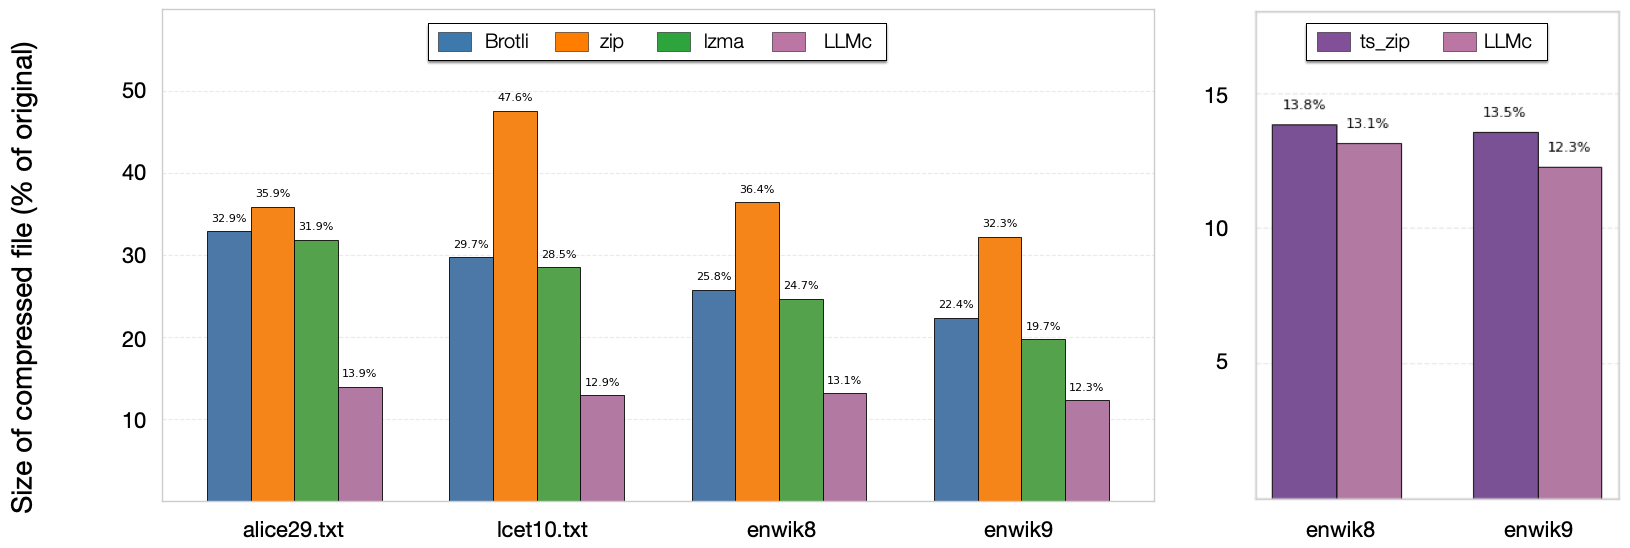
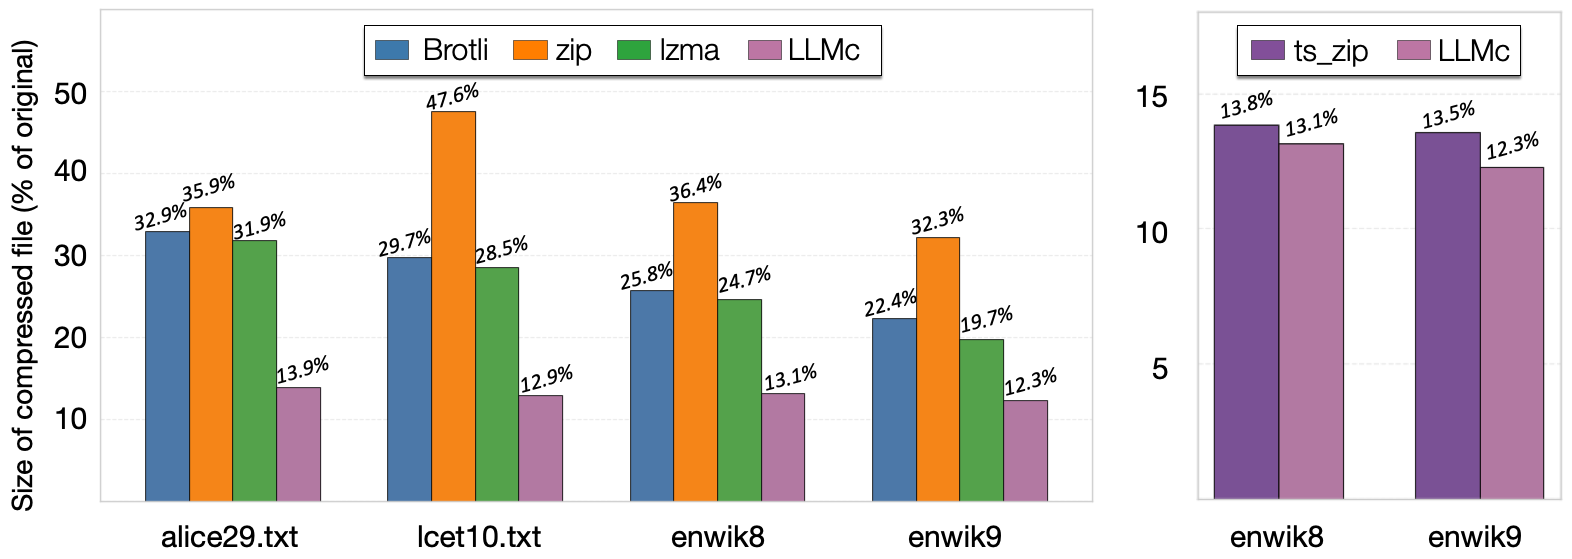
docs: fix image size and path.

diff --git a/README.md b/README.md
@@ -1,5 +1,10 @@
 <p align="center">
-  <img src="./figures/logo.png" alt="LLMc" width="120" />
+  <img src="./figures/logo.png" alt="LLMc" width="30%" />
+</p>
+
+<p align="center">
+  <a href="https://syfi.cs.washington.edu/blog/2025-10-03-llmc-compression">Blog</a> |
+  <a href="https://github.com/uw-syfi/llmc">Code</a>
 </p>
 
 LLMc is a language-model–powered compressor for natural language text. It encodes token ranks instead of raw token IDs and stores them with a compact format.
@@ -8,10 +13,6 @@ LLMc is a language-model–powered compressor for natural language text. It enco
 
 The core idea of LLMc is rank-based encoding. During inference, the LLM provides a probability distribution over possible next tokens. In most cases, the true next token ranks among the top few candidates. Instead of storing the token identity, LLMc stores its rank within the distribution. These ranks are small integers and therefore are compact to encode.
 
-<video autoplay loop muted width="100%">
-  <source src="/figures/design.webm" type="video/webm">
-  Your browser does not support the video tag.
-</video>
 
 ## Installation
 
@@ -43,7 +44,7 @@ llmc compress input.txt output.llmc \
 
 Notes:
 - `--threshold` and `--chunk-size` are required.
-- `output.llmc` is a raw byte stream (not gzip/pickle).
+- `output.llmc` is a raw byte stream.
 
 ### 2) Decompress
 
@@ -59,7 +60,7 @@ llmc decompress output.llmc restored.txt \
 
 ### 3) Serve (Web + API)
 
-Run the FastAPI server and static web frontend:
+Run the FastAPI server and web frontend:
 
 ```bash
 llmc serve \
@@ -77,7 +78,7 @@ The server enforces upper bounds via `--max-threshold` and `--max-chunk-size`. T
 Open the browser at `http://<host>:8000` after starting the server. Enter Threshold and Chunk size for each operation.
 
 <p align="center">
-  <img src="./figures/frontend.png" alt="Web frontend" width="720" />
+  <img src="./figures/frontend.png" alt="Web frontend" width="80%" />
 </p>
 
 ## Results
@@ -85,7 +86,7 @@ Open the browser at `http://<host>:8000` after starting the server. Enter Thresh
 Compression ratio with comparison to various traditional algorithms.
 
 <p align="center">
-  <img src="./figures/result.png" alt="Compression results" width="720" />
+  <img src="./figures/result.png" alt="Compression results" width="80%" />
 </p>
 
 ## Acknowledgements